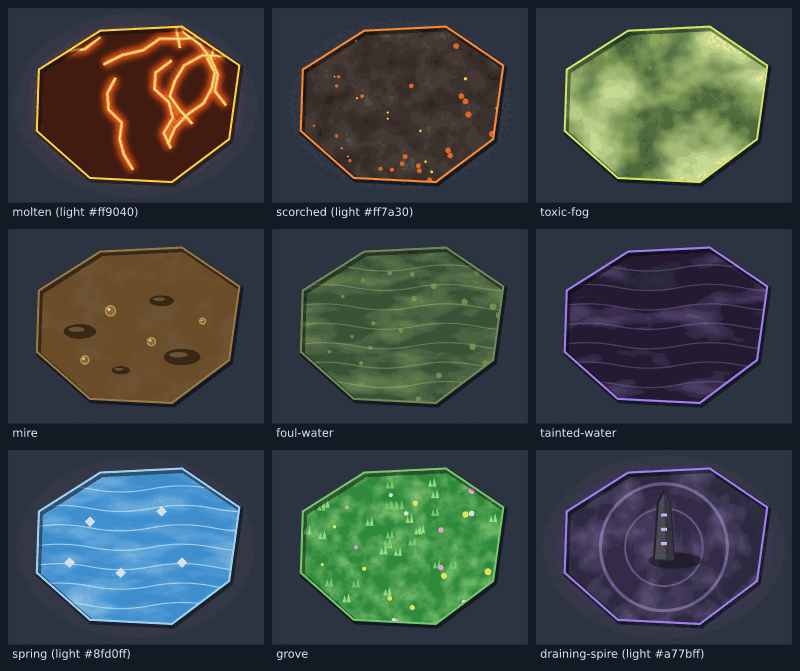
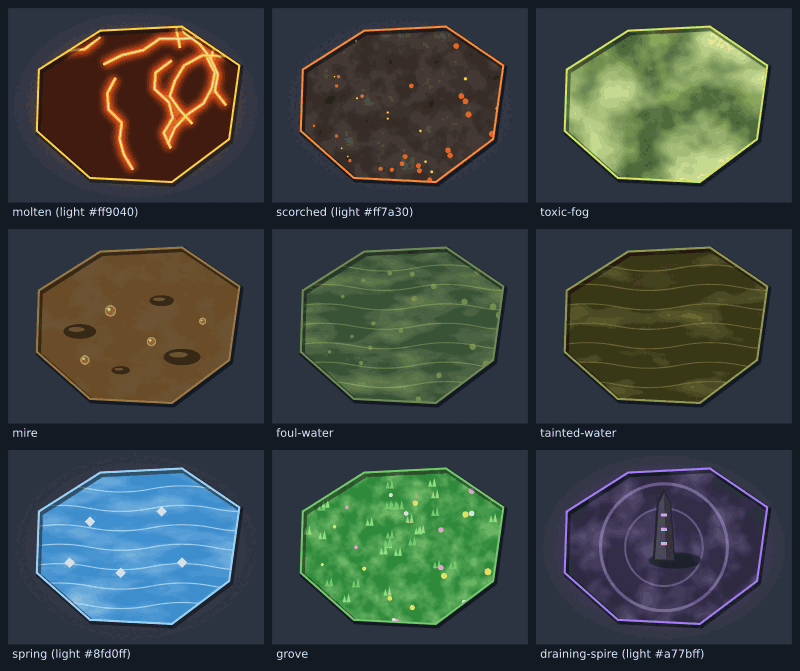
#3052: tainted-water is olive poison, not a violet twin of the spire

Changed region(s): [[0.6875, 0.3577, 0.9688, 0.6259]]

diff --git a/docs/art/3052-zones.md b/docs/art/3052-zones.md
@@ -4,17 +4,17 @@ Study: `3052-zones.png`, regenerate with `node scripts/assets/zones-study.mjs do
 (needs inkscape; the SVG is a build intermediate, not committed). Follows
 `visual-style.md`: hard edge 2 wide, dark drop under the SE edge, light from NW.
 
-| Kind           | Base / mid / accent           | Edge      | Texture                                         | Light (colour, radiusScale, intensity) |
-| -------------- | ----------------------------- | --------- | ----------------------------------------------- | -------------------------------------- |
-| molten         | `#2a1410` `#7a2a10` `#ffb03d` | `#ffd23d` | dark crust, hot cracks that slowly flow         | `#ff9040`, 1.6, 0.9                    |
-| scorched       | `#1c1614` `#3a2a22` `#ff6a2a` | `#ff8a3d` | charred earth, glowing ember specks that fade   | `#ff7a30`, 1.2, 0.35                   |
-| toxic-fog      | `#7fbf2a` `#a8d84a` `#e0f58a` | `#c8f05a` | two drifting puff layers, translucent           | none                                   |
-| mire           | `#4a3418` `#6b4a26` `#2a1c0c` | `#9c7a46` | wet mud, dark puddles, slow bubbles             | none                                   |
-| foul-water     | `#2c4430` `#3d5a3a` `#8a9a4a` | `#6f8f5a` | murky water, water-painter ripple, scum flecks  | none                                   |
-| tainted-water  | `#1a1226` `#2c1f40` `#9a7ad0` | `#a77bff` | near-black violet, oily sheen, ripple           | none                                   |
-| spring         | `#2f86d0` `#4fb0f0` `#e8faff` | `#9fdcff` | clear water, ripple, sparkles                   | `#8fd0ff`, 1.3, 0.45                   |
-| grove          | `#2f8a3c` `#4aa650` `#ffe066` | `#76c96f` | grass tufts, small flowers; lighter than ground | none                                   |
-| draining-spire | `#2a2236` `#4a3a6a` `#c9a8ff` | `#a77bff` | violet wash, rings, obelisk with rune glow      | `#a77bff`, 1.4, 0.7                    |
+| Kind           | Base / mid / accent           | Edge      | Texture                                                                         | Light (colour, radiusScale, intensity) |
+| -------------- | ----------------------------- | --------- | ------------------------------------------------------------------------------- | -------------------------------------- |
+| molten         | `#2a1410` `#7a2a10` `#ffb03d` | `#ffd23d` | dark crust, hot cracks that slowly flow                                         | `#ff9040`, 1.6, 0.9                    |
+| scorched       | `#1c1614` `#3a2a22` `#ff6a2a` | `#ff8a3d` | charred earth, glowing ember specks that fade                                   | `#ff7a30`, 1.2, 0.35                   |
+| toxic-fog      | `#7fbf2a` `#a8d84a` `#e0f58a` | `#c8f05a` | two drifting puff layers, translucent                                           | none                                   |
+| mire           | `#4a3418` `#6b4a26` `#2a1c0c` | `#9c7a46` | wet mud, dark puddles, slow bubbles                                             | none                                   |
+| foul-water     | `#2c4430` `#3d5a3a` `#8a9a4a` | `#6f8f5a` | murky water, water-painter ripple, scum flecks                                  | none                                   |
+| tainted-water  | `#23230f` `#4a4a1e` `#c8b84a` | `#9a9a4c` | dark olive water, amber oily sheen, ripple; darker and yellower than foul-water | none                                   |
+| spring         | `#2f86d0` `#4fb0f0` `#e8faff` | `#9fdcff` | clear water, ripple, sparkles                                                   | `#8fd0ff`, 1.3, 0.45                   |
+| grove          | `#2f8a3c` `#4aa650` `#ffe066` | `#76c96f` | grass tufts, small flowers; lighter than ground                                 | none                                   |
+| draining-spire | `#2a2236` `#4a3a6a` `#c9a8ff` | `#a77bff` | violet wash, rings, obelisk with rune glow                                      | `#a77bff`, 1.4, 0.7                    |
 
 Edges keep today's `ZONE_LOOK` colours. Fills are textured, so `alpha` drops to
 a floor under the texture; the toxic fog stays translucent so bodies inside show.
